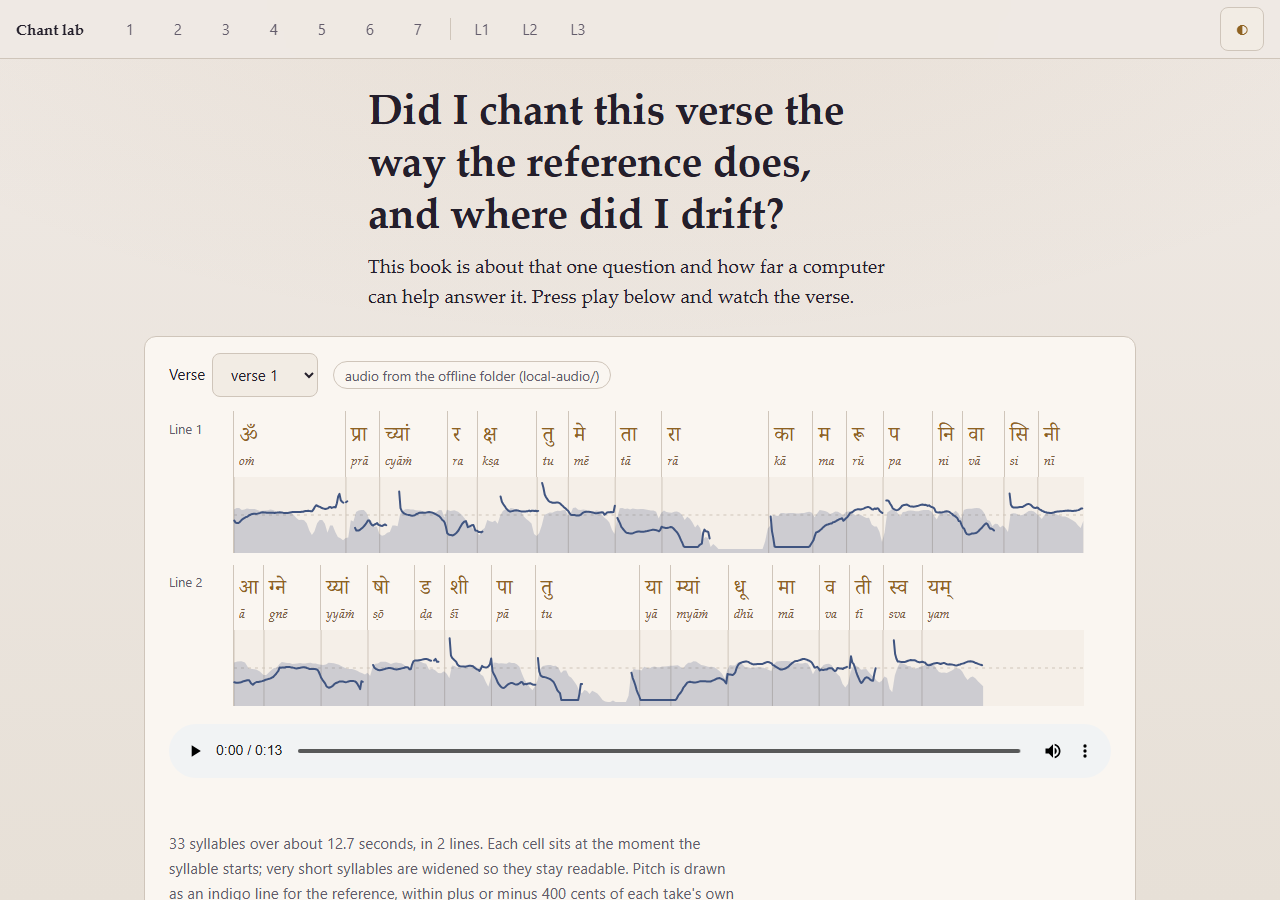
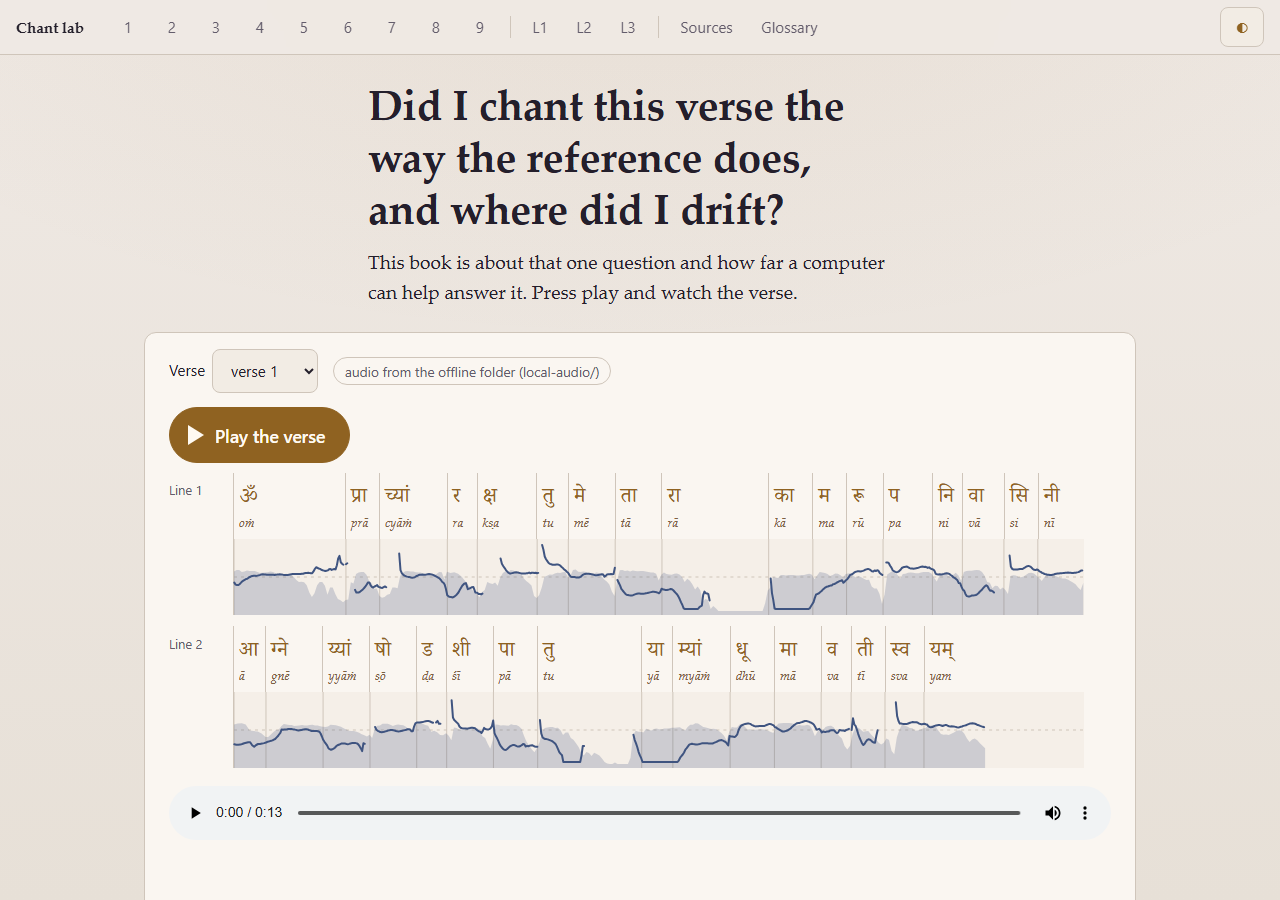
docs(#57): README and screenshots after QA fixes (Refs #57)

diff --git a/rnd/57-chant-lab/README.md b/rnd/57-chant-lab/README.md
@@ -1,6 +1,6 @@
 # Chant lab (dmv #57)
 
-A small textbook with an interactive lab: how a machine can tell whether a verse was chanted like a reference, with seven chapters, three lab pages, sources and a glossary. Plain HTML, CSS and ES modules. No build, no CDN, no npm. R&D test page: the live app does not link to it and nothing here is wired into it.
+A small textbook with an interactive lab: how a machine can tell whether a verse was chanted like a reference, with nine chapters, three lab pages, sources and a glossary. Plain HTML, CSS and ES modules. No build, no CDN, no npm. R&D test page: the live app does not link to it and nothing here is wired into it.
 
 ## Run it
 
@@ -15,6 +15,7 @@ It must be served from the repo root over http://localhost (the microphone needs
 ## What is where
 
 - `DESIGN.md`: palette, type, layout, the akshara ribbon.
+- `tools/build-sources.py` builds `sources.html` (anchored entries `#s12`); `js/glossary.js` is the one glossary list (the glossary page and the dotted-underline links both read it).
 - `chant.json`: the one file with everything chant-specific (verses, per-syllable reference timings, day sets, clips location, measured evidence). Built by `tools/build-chant-json.py` from the #55 analysis output.
 - `js/ribbon.js`: the akshara ribbon, used on every page. `js/chrome.js`: bar, previous/next, Keep/Improve/Drop feedback (localStorage, exported as JSON from the footer).
 - The aligner, the audio-source chain and the calibration damage function are the #56 modules in `../56-audio-sources/`, mounted unchanged (`compare.js`, `audio-source.js`, `calibration.js`, `record.js` for decoding).
